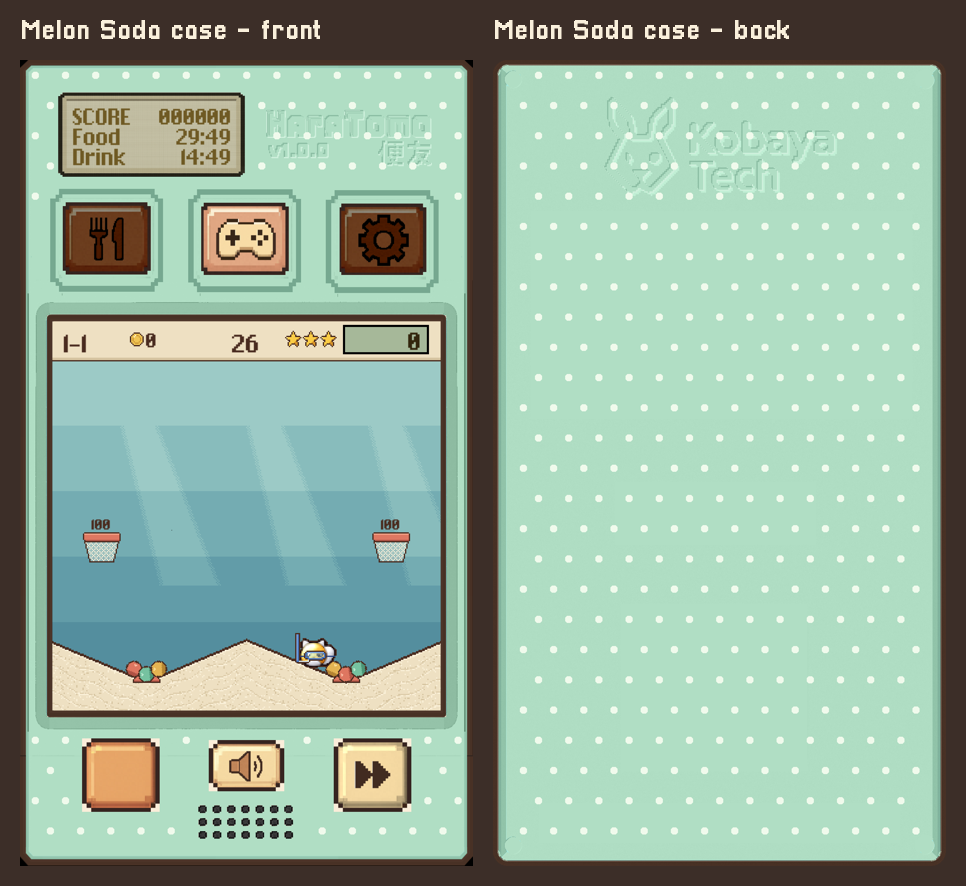
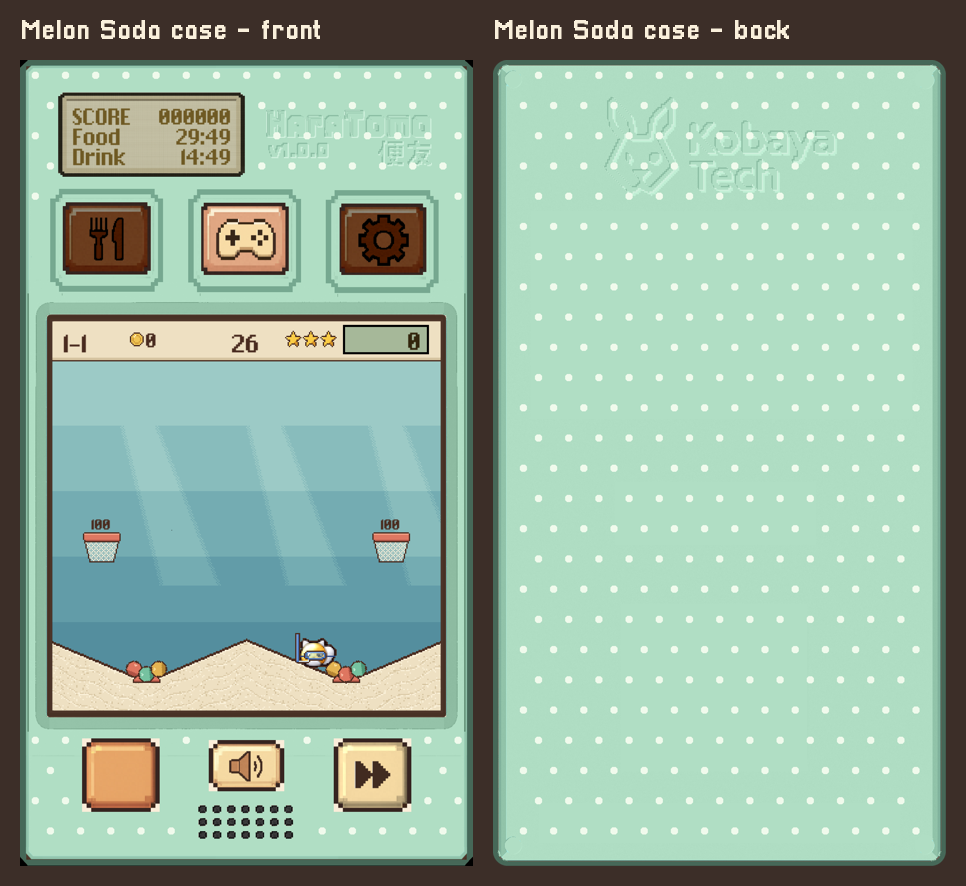
Melon Soda case: the left side too (the edge mirror hidden), the device's outline in a dark case tone, the speaker grille painted on the case (no light rims), a smoother put-on: rises from the side, comes down gently

Changed region(s): [[0.0, 0.0609, 0.9938, 0.9752]]

diff --git a/tools/art/case_melon.py b/tools/art/case_melon.py
@@ -44,7 +44,8 @@ def make(path, keep_boxes, cover=(), logo_box=None, logo_tones=None, front_logo=
     rgb[side] = np.clip(np.array(SIDE) + (rgb[side] - TAN) * 1.1, 0, 255)
     dark = alpha & (rgb.sum(-1) < 300) & ~keep
     outside = ~alpha.copy(); outside[0, :] = outside[-1, :] = True; outside[:, 0] = outside[:, -1] = True
-    rim = dark & binary_dilation(outside, iterations=14)     # (left dark: the device's own outline)
+    rim = dark & binary_dilation(outside, iterations=14)
+    rgb[rim & (rgb.sum(-1) > 60)] = (70, 104, 88)    # the device's dark brown outline: the case's colour, darker (black corners stay)
     lab, n = label(alpha & (rgb.sum(-1) < 520) & ~keep & ~rim)
     for i in range(1, n + 1):
         ys, xs = np.nonzero(lab == i)
@@ -115,7 +116,7 @@ BUMPS = [((58, 293, 352, 568), (102, 338, 312, 512)), ((388, 293, 682, 568), (43
 # the buttons' surroundings (menu buttons, then the bottom three), and the speaker (no dots there)
 AROUND = [(50, 285, 360, 578), (380, 285, 690, 578), (710, 285, 1020, 578),
           (130, 1595, 352, 1812), (428, 1600, 652, 1768), (728, 1595, 952, 1812)]
-SPEAKER = (405, 1760, 675, 1870)
+SPEAKER = (395, 1735, 685, 1885)
 front_keep = [(102, 338, 312, 512), (432, 338, 642, 512), (762, 338, 972, 512),
               (148, 1616, 333, 1791), (450, 1620, 630, 1742), (748, 1616, 933, 1791),   # (the bottom buttons, whole: outline and all)
               (65, 608, 1016, 1565), (96, 86, 530, 274)]

diff --git a/tools/art/case_melon_build.py b/tools/art/case_melon_build.py
@@ -52,6 +52,13 @@ for (x0, y0, x1, y1) in [(52, 290, 358, 572), (382, 290, 688, 572), (712, 290, 1
                          (140, 1608, 342, 1800), (442, 1612, 640, 1752), (740, 1608, 942, 1800)]:
     base[y0:y1, x0:x1, :3] = BODY
     base[y0:y1, x0:x1, 3] = 255
+# the speaker grille, painted on the case: its holes dark, round them the case (the speaker's own
+# images, with a light rim on each hole, are hidden while the case is on)
+sx0, sy0, sx1, sy1 = ns['SPEAKER']
+grille = src[sy0:sy1, sx0:sx1, :3]
+holes = grille.sum(-1) < 520          # (the holes with their soft edge; only the light rim goes)
+base[sy0:sy1, sx0:sx1, :3] = np.where(holes[..., None], grille, BODY)
+base[sy0:sy1, sx0:sx1, 3] = 255
 top = np.zeros_like(out)
 for (x0, y0, x1, y1) in [(575, 105, 1000, 265), (20, 1835, 80, 1895), (1000, 1835, 1060, 1895), (20, 20, 80, 80), (1000, 20, 1060, 80)]:
     top[y0:y1, x0:x1] = out[y0:y1, x0:x1]
